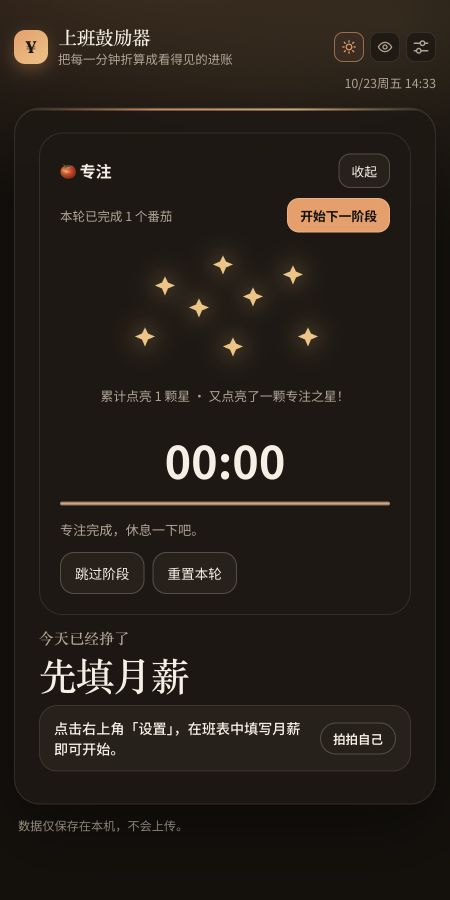
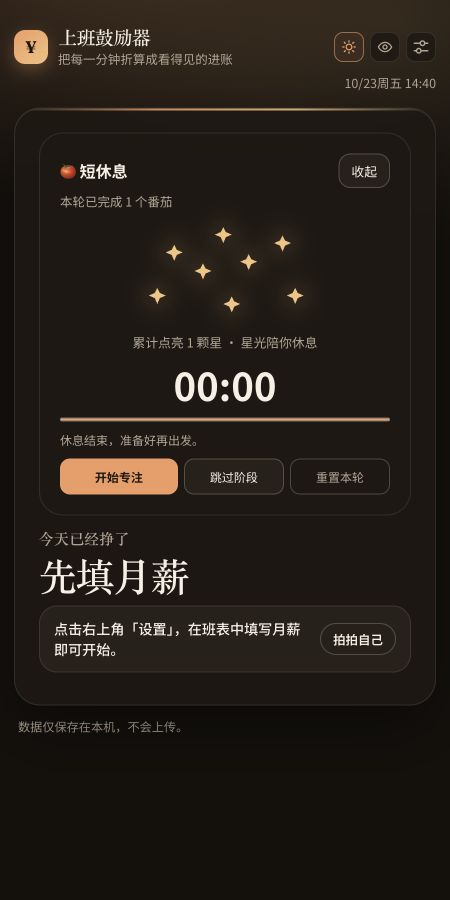
fix: tighten Pomodoro controls and inset layout reset action

diff --git a/index.html b/index.html
@@ -9,8 +9,8 @@
     <link rel="preconnect" href="https://fonts.googleapis.com" />
     <link rel="preconnect" href="https://fonts.gstatic.com" crossorigin />
     <link href="https://fonts.googleapis.com/css2?family=Fraunces:opsz,wght@9..144,580;9..144,680&family=Noto+Sans+SC:wght@400;500;600;700&display=swap" rel="stylesheet" />
-    <link rel="stylesheet" href="./styles.css?v=20261023-141" />
-    <link rel="stylesheet" href="./features.css?v=141" />
+    <link rel="stylesheet" href="./styles.css?v=20261023-142" />
+    <link rel="stylesheet" href="./features.css?v=142" />
     <link rel="stylesheet" href="./calendar.css?v=130" />
     <link rel="stylesheet" href="./goals-ui.css?v=130" />
   </head>
@@ -69,14 +69,14 @@
       <section class="stage" id="stage" aria-label="主面板模块">
       <section id="pomodoro-card" class="pomodoro-card" aria-label="番茄钟" data-module="pomodoro">
         <div class="pomodoro-heading"><strong id="pomodoro-phase">🍅 专注</strong><span id="pomodoro-compact-time" hidden></span><button id="pomodoro-collapse" type="button" aria-expanded="true" aria-controls="pomodoro-body">收起</button></div>
-        <div class="pomodoro-primary"><span id="pomodoro-rounds"></span><button id="pomodoro-toggle" type="button">开始</button></div>
+        <div class="pomodoro-primary"><span id="pomodoro-rounds"></span></div>
         <div id="pomodoro-body">
         <div id="pomodoro-visual" aria-hidden="true"></div><p id="pomodoro-achievement" class="pomodoro-achievement" role="status"></p>
         <div id="pomodoro-time" class="pomodoro-time" role="timer">25:00</div>
         <progress id="pomodoro-progress" max="1" value="0" aria-label="番茄钟进度"></progress>
         <p id="pomodoro-message" role="status"></p>
-        <div class="pomodoro-actions"><button id="pomodoro-skip" type="button">跳过阶段</button><button id="pomodoro-reset" type="button">重置本轮</button></div>
         </div>
+        <div class="pomodoro-actions"><button id="pomodoro-toggle" type="button">开始</button><button id="pomodoro-skip" type="button">跳过阶段</button><button id="pomodoro-reset" type="button">重置本轮</button></div>
       </section>
 
         <div data-module="income">
@@ -327,6 +327,6 @@
       </div>
     </dialog>
     <div id="celebration-toast" role="status" aria-live="polite" hidden></div>
-    <script type="module" src="./app.js?v=20261023-141"></script>
+    <script type="module" src="./app.js?v=20261023-142"></script>
   </body>
 </html>

diff --git a/styles.css b/styles.css
@@ -1175,3 +1175,23 @@ html.is-menubar .settings-schedule .sheet { padding: 14px; margin: 0; border: 0;
 .layout-row > div { display:flex; gap:6px; flex-shrink:0; }
 #extended-settings .layout-row button { padding:5px 8px; font-size:12px; }
 @media(prefers-reduced-motion:reduce) { .growing-tree,.growth-star { transition:none; } }
+
+/* One compact action row keeps the primary control in a stable position. */
+.pomodoro-heading { gap:8px; }
+.pomodoro-primary { margin-top:4px; }
+.pomodoro-actions { display:flex; flex-wrap:nowrap; align-items:center; gap:6px; margin-top:10px; }
+.pomodoro-actions button { flex:1 1 0; min-width:0; min-height:36px; padding:7px 5px; font-size:12px; line-height:1.3; white-space:nowrap; border-radius:10px; }
+#pomodoro-toggle { color:#23180f; background:var(--accent); border-color:transparent; }
+#pomodoro-reset { background:transparent; color:var(--muted); }
+#pomodoro-message { margin:8px 0 0; font-size:12px; }
+#pomodoro-visual { max-width:210px; margin-top:6px; }
+#pomodoro-visual svg { height:110px; }
+.pomodoro-time { font-size:clamp(2.4rem,8vw,3.2rem); padding:4px; }
+.pomodoro-achievement { margin:6px 0 0; }
+.pomodoro-card[data-collapsed="true"] .pomodoro-actions { margin-top:8px; }
+.pomodoro-card[data-collapsed="true"] #pomodoro-skip,.pomodoro-card[data-collapsed="true"] #pomodoro-reset { display:none; }
+.pomodoro-card[data-collapsed="true"] #pomodoro-toggle { flex:0 0 auto; min-width:88px; padding-inline:16px; }
+.pomodoro-actions button:focus-visible,#pomodoro-collapse:focus-visible { outline:2px solid var(--accent); outline-offset:3px; }
+.pomodoro-actions button:not(:disabled):active { transform:translateY(1px); }
+
+.pomodoro-actions #pomodoro-toggle { flex-grow:1.2; }

diff --git a/pomodoro.js b/pomodoro.js
@@ -70,8 +70,8 @@ export function setupPomodoroUI(timer, getConfig, setCollapsed) {
     el('pomodoro-time').setAttribute('aria-label',`${phaseNames[s.phase]}剩余 ${formatTimer(s.remaining)}`);
     el('pomodoro-progress').value=s.progress;
     el('pomodoro-rounds').textContent=`本轮已完成 ${s.completed} 个番茄`;
-    el('pomodoro-message').textContent=s.error || (s.status==='done' ? (s.phase==='focus'?'专注完成，休息一下吧。':'休息结束，准备好再出发。') : s.status==='paused'?'已暂停，按自己的节奏来。':'每次只做好眼前这一件事。');
-    el('pomodoro-toggle').textContent=s.status==='running'?'暂停':s.status==='paused'?'继续':s.status==='done'?'开始下一阶段':'开始';
+    el('pomodoro-message').textContent=s.error || (s.status==='done' ? (s.phase==='focus'?'专注完成，休息一下吧。':'休息结束，准备好再出发。') : s.status==='paused'?'已暂停，按自己的节奏来。':s.phase==='focus'?'每次只做好眼前这一件事。':'放松一下，准备好再出发。');
+    el('pomodoro-toggle').textContent=s.status==='running'?'暂停':s.status==='paused'?'继续':s.status==='done'?(s.phase==='focus'?'开始休息':'开始专注'):'开始';
     el('pomodoro-skip').disabled=s.status==='idle';
     return s;
   };

diff --git a/features.css b/features.css
@@ -37,3 +37,5 @@
 @media(max-width:360px){#extended-settings .settings-row-wrap{align-items:flex-start}.time-pair input{width:92px}.feature-note{padding-inline:12px}.goal-card-visual{height:52px}}
 
 #extended-settings input[type="number"] { width:90px; max-width:100%; color:var(--ink); background:var(--card); border:1px solid var(--line-strong); border-radius:10px; padding:8px; font:inherit; }
+
+#layout-editor + .feature-buttons { margin-top:0; padding:12px 16px 0; }

diff --git a/CHANGELOG.md b/CHANGELOG.md
@@ -15,6 +15,11 @@
 - **阶段通知**：可单独开启番茄钟阶段结束通知，遵循提醒中心的允许时间与跨午夜免打扰；通知不含薪资和金额。
 - **备份兼容**：完整备份新增番茄钟偏好、样式、收起状态和模块顺序；旧设置与旧备份自动补全默认值。
 
+## 界面调整
+
+- 番茄钟主操作集中为紧凑的一排，统一按钮高度，突出开始／暂停，跳过与重置作为次要操作；收起后保留主要操作。
+- 修复模块布局中“恢复默认顺序”按钮贴边的问题，与分组内容保持一致留白。
+
 ## 使用方法
 
 1. 在主面板点击「开始」专注；卡片右上角可收起或展开。
@@ -23,7 +28,7 @@
 
 ## 下载与升级
 
-**版本 1.4.0 / Build 7，需要 macOS 13 或更新版本。** 两个安装包均为 Universal，包含 Apple Silicon（arm64）与 Intel（x86_64）。
+**版本 1.4.0 / Build 8，需要 macOS 13 或更新版本。** 两个安装包均为 Universal，包含 Apple Silicon（arm64）与 Intel（x86_64）。
 
 - `WorkEncourager-macOS-universal-v1.4.0.dmg`：打开后将「上班鼓励器.app」拖入 Applications。
 - `WorkEncourager-macOS-universal-v1.4.0.zip`：解压后将应用放入 Applications。
